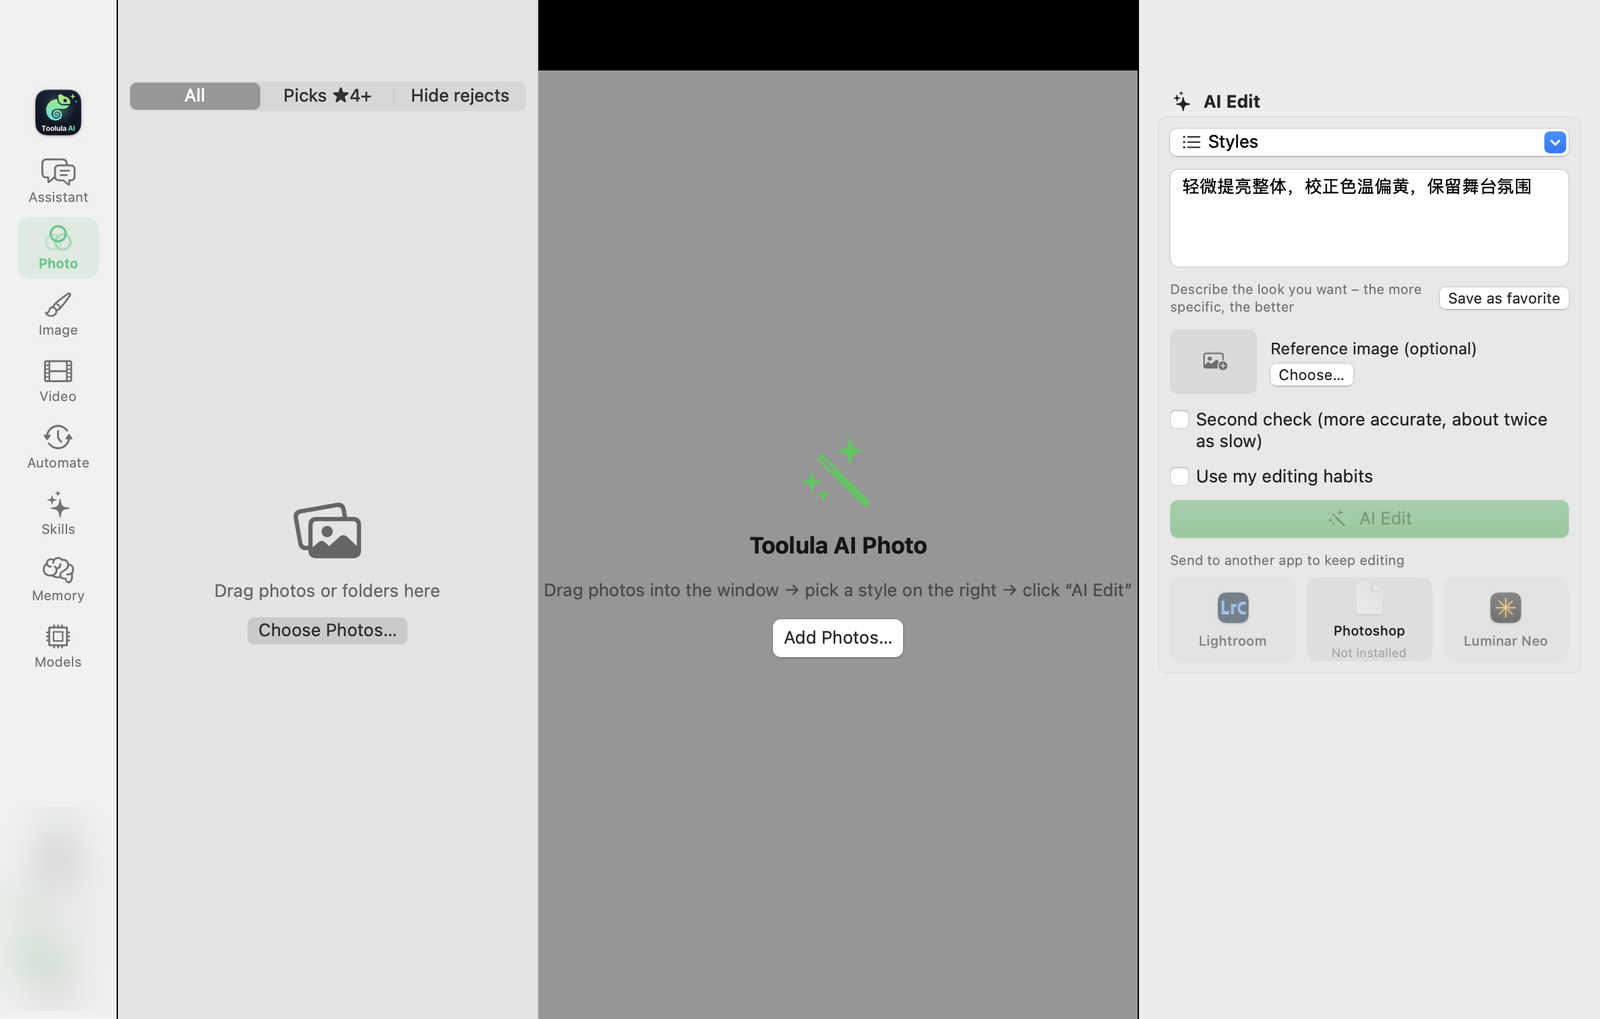
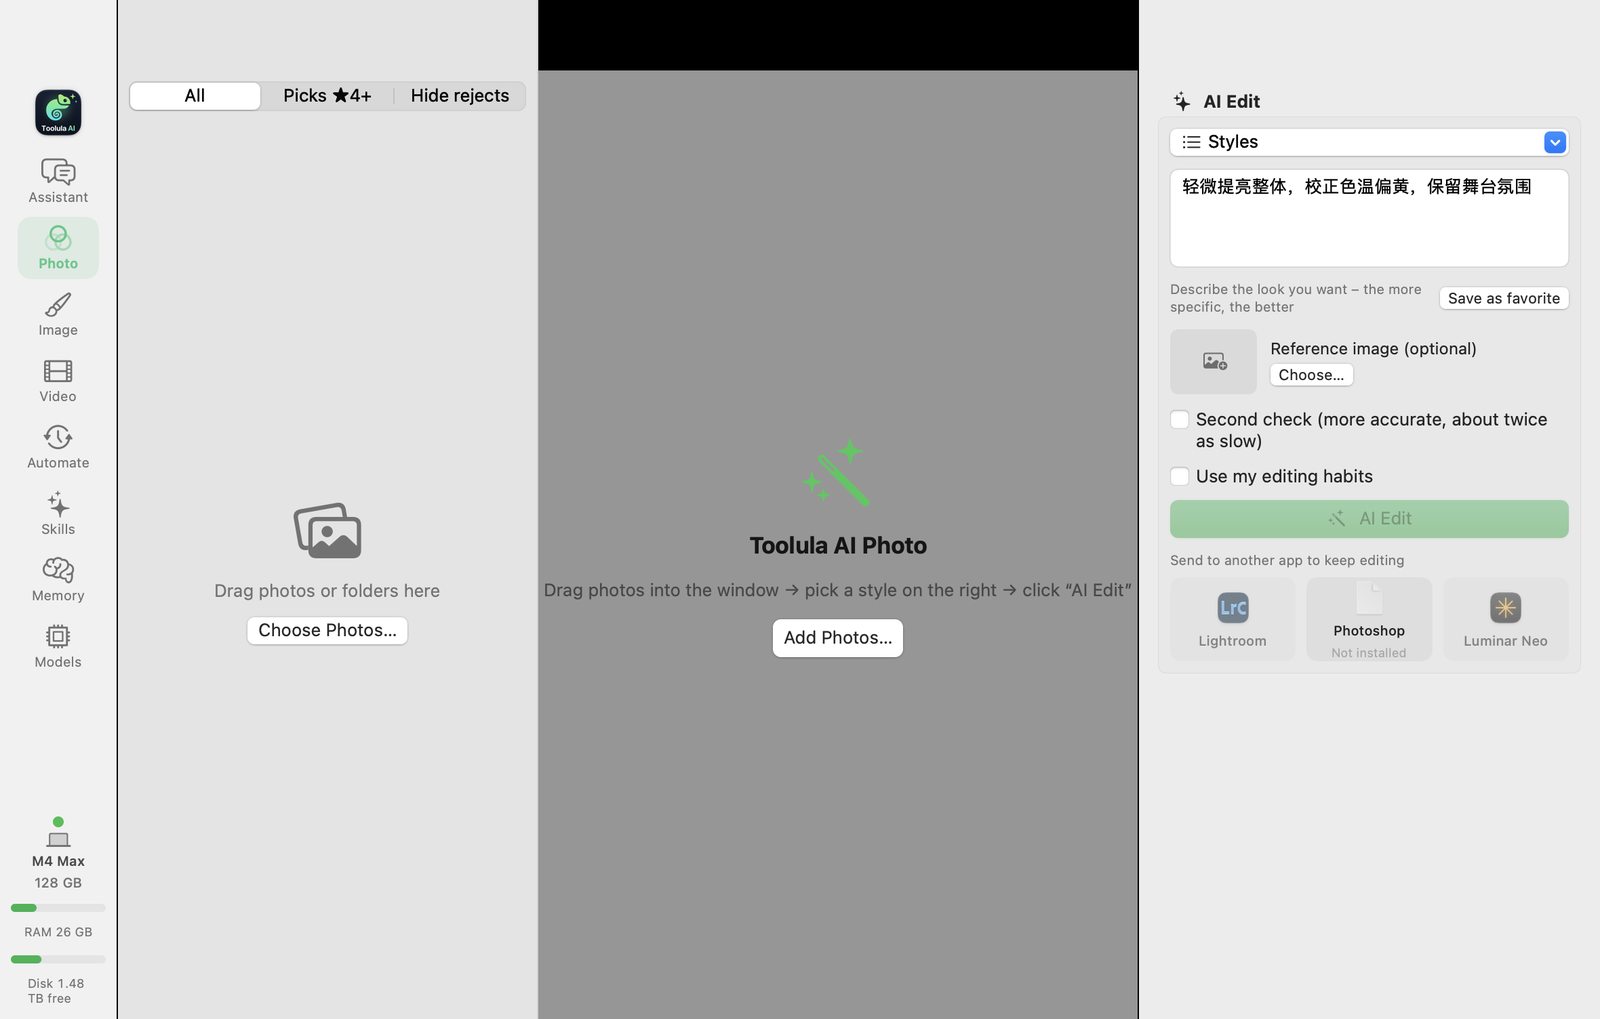
README screenshots: show an M4 Max 128 GB / 2 TB Mac instead of blurring; add --demo-mac self-test switch

diff --git a/Sources/ToolulaAI/SystemInfo.swift b/Sources/ToolulaAI/SystemInfo.swift
@@ -18,6 +18,20 @@ struct DiskInfo: Identifiable, Hashable {
 @MainActor
 final class SystemInfo: ObservableObject {
     static let shared = SystemInfo()
+    /// 自测截图用 (--demo-mac): 显示成 MacBook Pro 16 英寸 M4 Max 128 GB / 2 TB, 做产品介绍图
+    nonisolated(unsafe) static var demoMac = false
+    private func applyDemoMac() {
+        machine = String(localized: "\("MacBook Pro") \("16") 英寸")
+        modelId = "Mac16,5"
+        chip = "Apple M4 Max"
+        memory = "128 GB"
+        cores = String(localized: "\(16) 核 CPU") + String(localized: "（\(12) 性能 + \(4) 能效）")
+        gpuCores = String(localized: "\("40") 核 GPU")
+        totalGB = 128
+        usedGB = 26
+        disks = [DiskInfo(id: "/", name: "Macintosh HD", total: 2_000_000_000_000, free: 1_480_000_000_000, isSystem: true, isInternal: true)]
+        SystemInfoSnapshot.text = promptText
+    }
 
     @Published var machine = "Mac"
     @Published var chip = ""
@@ -112,6 +126,7 @@ final class SystemInfo: ObservableObject {
                 self.cores = coreText
                 self.gpuCores = gpuText
                 SystemInfoSnapshot.text = self.promptText
+                if SystemInfo.demoMac { self.applyDemoMac() }
             }
         }
         updateMemory()
@@ -132,13 +147,14 @@ final class SystemInfo: ObservableObject {
         let r = withUnsafeMutablePointer(to: &stats) {
             $0.withMemoryRebound(to: integer_t.self, capacity: Int(count)) { host_statistics64(mach_host_self(), HOST_VM_INFO64, $0, &count) }
         }
-        guard r == KERN_SUCCESS else { return }
+        guard r == KERN_SUCCESS, !SystemInfo.demoMac else { return }
         let page = Double(vm_kernel_page_size)
         let used = (Double(stats.active_count) + Double(stats.wire_count) + Double(stats.compressor_page_count)) * page
         usedGB = used / 1_073_741_824
     }
 
     func updateDisks() {
+        if SystemInfo.demoMac { applyDemoMac(); return }
         let keys: [URLResourceKey] = [.volumeNameKey, .volumeTotalCapacityKey, .volumeAvailableCapacityForImportantUsageKey,
                                       .volumeAvailableCapacityKey, .volumeIsInternalKey, .volumeIsRootFileSystemKey, .volumeIsBrowsableKey]
         let urls = FileManager.default.mountedVolumeURLs(includingResourceValuesForKeys: keys, options: [.skipHiddenVolumes]) ?? []

diff --git a/Sources/ToolulaAI/SelfTest.swift b/Sources/ToolulaAI/SelfTest.swift
@@ -138,6 +138,7 @@ extension AppDelegate {
         let out = URL(fileURLWithPath: args[i + 1])
         if let r = val("--sim-ram").flatMap(Double.init) { Recommender.simulatedRAM = r }
         if args.contains("--sim-intel") { Recommender.simulateIntel = true }
+        if args.contains("--demo-mac") { SystemInfo.demoMac = true; Recommender.simulatedRAM = 128 }
         let values = Set(["--snapshot", "--section", "--chat", "--ai", "--export", "--download", "--gh-import", "--sim-ram", "--settings", "--export-side", "--video", "--video-model", "--video-seconds", "--comfy-warmup", "--dump-prompt", "--bench", "--setup-install", "--setup-model", "--chat-model", "--image", "--image-model", "--local", "--show-mask", "--erase", "--brush", "--link", "--diagnostics", "--quick", "--hotkey-test", "--keys", "--palette-query", "--doc-test", "--doc-ask", "--queue-test", "--assist-test", "--use-chat-model", "--doc-model", "--broker-model"].compactMap(val))
         let files = args.dropFirst().filter { !values.contains($0) && !$0.hasPrefix("--")
             && Renderer.imageExtensions.contains(($0 as NSString).pathExtension.lowercased()) }
